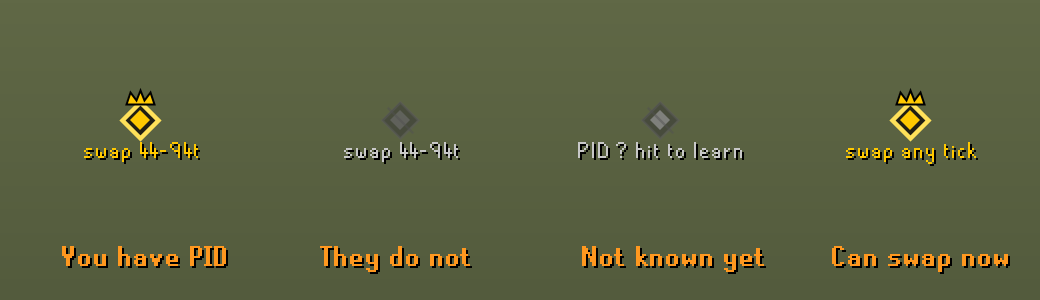
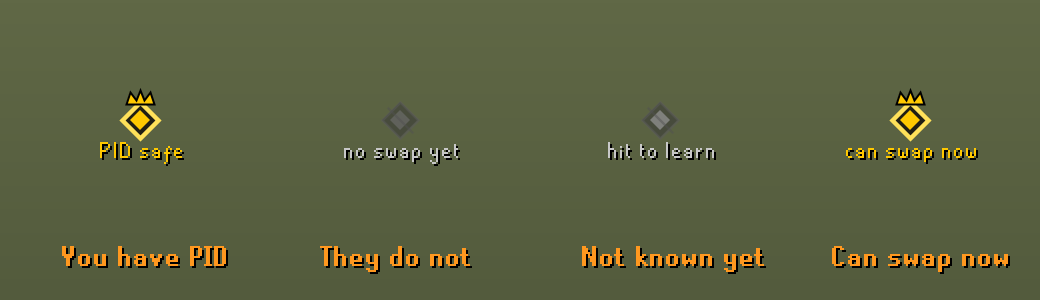
README for PKers, a key to every diamond, labels in words
The labels under the diamonds read on their own: PID safe, no swap yet,
can swap now, hit to learn. The README speaks to what PKers run into with
PID, says what each diamond means and what to do, and asks them to take
part.

diff --git a/src/main/java/com/drthomasager/pid/PidIndicatorOverlay.java b/src/main/java/com/drthomasager/pid/PidIndicatorOverlay.java
@@ -70,6 +70,12 @@ class PidIndicatorOverlay extends Overlay
 		return null;
 	}
 
+	/**
+	 * The label under a diamond, in words. Before PID can be redrawn the
+	 * holder's reads "PID safe" and the other's "no swap yet". Once a redraw
+	 * can happen both read "can swap now". With nothing read yet, yours reads
+	 * "hit to learn".
+	 */
 	private String note(PidTracker.Holder h, boolean mine)
 	{
 		if (!config.showSwapTicks())
@@ -78,20 +84,15 @@ class PidIndicatorOverlay extends Overlay
 		}
 		if (h == PidTracker.Holder.UNKNOWN)
 		{
-			return mine ? "PID ? hit to learn" : null;
+			return mine ? "hit to learn" : null;
 		}
-		int[] w = plugin.redrawWindow();
-		int toLo = w[0] - plugin.getSinceChange();
-		int toHi = w[1] - plugin.getSinceChange();
-		if (toLo > 0)
+		boolean holder = (h == PidTracker.Holder.ME) == mine;
+		boolean locked = plugin.getSinceChange() < plugin.redrawWindow()[0];
+		if (locked)
 		{
-			return "swap " + toLo + "-" + toHi + "t";
+			return holder ? "PID safe" : "no swap yet";
 		}
-		if (toHi > 0)
-		{
-			return "swap now-" + toHi + "t";
-		}
-		return "swap any tick";
+		return "can swap now";
 	}
 
 	private void diamond(Graphics2D g, Player p, boolean hasPid, boolean unknown, String note)

diff --git a/src/main/java/com/drthomasager/pid/PidIndicatorConfig.java b/src/main/java/com/drthomasager/pid/PidIndicatorConfig.java
@@ -20,8 +20,8 @@ public interface PidIndicatorConfig extends Config
 
 	@ConfigItem(
 		keyName = "showSwapTicks",
-		name = "Show swap ticks",
-		description = "Under each diamond, the ticks until PID can be drawn again",
+		name = "Show swap labels",
+		description = "Under each diamond, whether PID is safe or can swap now",
 		position = 2
 	)
 	default boolean showSwapTicks()

diff --git a/README.md b/README.md
@@ -1,38 +1,86 @@
 # PID Indicator
 
-A RuneLite plugin that shows who has PID in your fight.
+**Stop guessing who has PID. See it, live, over both your heads.**
 
 ![The four states of the PID diamond](docs/diamonds.png)
 
-A diamond floats over your head and over your opponent's. The one with PID gets a gold diamond with a crown. The one without gets a grey diamond with a cross, and both stay grey until the plugin has seen enough to know. Under each diamond is the number of ticks until PID can be redrawn.
+Every PKer knows PID decides fights. Whoever has it gets their actions in first each tick. Their hit lands sooner, their step happens before yours, and when you both go for the KO at the same moment, theirs counts first. Until now you couldn't see any of that. You had to guess.
 
-## How it knows
+PID Indicator puts a diamond over your head and over your opponent's. **Gold with a crown means that player has PID. Grey means they don't.**
 
-Old School RuneScape processes players in an order each tick, and the player processed first has PID. When both of you attack on the same tick, PID decides whose hit lands first.
+---
 
-A melee hit lands either on the tick its swing begins or one tick later. The fighter whose hit lands on the same tick as their swing was processed first that tick, so they have PID. Across 147 recorded Last Man Standing fights, whenever one fighter's hit landed on the swing tick, the other's landed a tick later (245 nearby pairs, 2 exceptions).
+## What you'll see
 
-Crossbow shots count too. A bolt takes `1 + (3 + distance) / 6` ticks to land (rounded down). Landing on exactly that tick means the shooter was processed first, and landing one tick later means the other fighter was.
+| Over a player | What it means | What to do |
+|---|---|---|
+| **Gold diamond with a crown**, `PID safe` | This player has PID, and it can't change hands yet. | If it's you, this is your window, so push. If it's them, play safe and wait it out. |
+| **Grey diamond**, `no swap yet` | This player doesn't have PID, and won't get it back soon. | If it's you, don't take even trades now. Wait for the swap. |
+| **Either diamond**, `can swap now` | PID can be redrawn at any moment. | Watch the crown. It might jump. |
+| **Grey diamond over you**, `hit to learn` | The plugin hasn't seen enough yet. | Land a hit and it will know. |
 
-The plugin takes the side named by most of the last three readings within 40 ticks. With no reading for 40 ticks it goes back to unknown, since 40 ticks is the soonest PID can be redrawn. Scored over the recorded fights, it names the holder correctly on 88 percent of the next melee readings, and knows the holder on 90 percent of fight ticks.
+---
 
-## The swap ticks
+## The problems it solves
 
-According to the [OSRS Wiki](https://oldschool.runescape.wiki/w/PID), PID is redrawn at random every 100 to 150 ticks, or every 40 to 60 on PvP worlds. The number under each diamond counts down to that window from the last time the plugin saw PID change hands.
+### "Do I even have PID right now?"
 
-- `swap 44-94t` means the earliest and latest ticks until the next redraw.
-- `swap now-30t` means the window is open now and closes within 30 ticks.
-- `swap any tick` means the window has passed.
-- `PID ? hit to learn` means nothing has been read yet, so land a hit.
+Most players find out after the fight, from a clip, or never. Some burn hitpoints testing it, trading hits and squinting at hitsplats.
+
+**The plugin reads it from your fight as it happens.** The player with PID sees their melee hit land the moment they swing, while the other player's lands a moment later. The plugin watches every swing and every hit, yours and theirs, and puts the answer over your heads. Crossbow bolts count too. You never have to trade hits on purpose to find out.
+
+### "I went all in and they had PID."
+
+You stack your spec, they eat, and their hit lands first. PID decided that exchange and you never saw it coming.
+
+**A gold crown over you means go.** With PID your hits land first, which is your window to push. With the crown over them, you know they act first, so you can hold back until it swaps.
+
+### "PID swapped mid-fight and I didn't notice."
+
+The game redraws PID at random every minute or so, and faster on PvP worlds. An advantage you had a moment ago can be gone now.
+
+**The label tells you when it can change.** `PID safe` means it can't swap yet. `can swap now` means it might jump any moment. You'll see your advantage ending before it ends, and can plan your next push for the next window.
+
+### "I keep losing the trades I should win."
+
+Two equal players trade hits, and one keeps coming out ahead. More often than people think, the difference is PID, not skill.
+
+**Now you can see it and learn from it.** Notice which fights you win with the crown over you and which you lose without it. You'll start to feel when to commit and when to wait, in Last Man Standing, in the Wilderness, on PvP worlds and in NH fights.
+
+### "Every PID tool is a guess."
+
+Most of what's out there is forum rules of thumb.
+
+**This one was built from real fights.** The method came from studying a large set of recorded Last Man Standing fights, hit by hit. When it isn't sure, it doesn't pretend. It shows a grey diamond and `hit to learn`.
+
+---
+
+## What it does and doesn't do
+
+- It only reads what your own client already shows you, meaning the attacks and hits of you and your opponent.
+- It sends nothing anywhere and talks to no server.
+- It never clicks, never acts for you, and changes nothing in the game. It draws two diamonds and a word.
 
 ## Settings
 
-- **Show outside fights.** Keeps your own diamond over your head in PvP places (the Wilderness, PvP, Last Man Standing, high risk and Deadman worlds) even when you aren't fighting. On by default.
-- **Show swap ticks.** Shows the tick counts under the diamonds. On by default.
+- **Show outside fights.** Keeps your own diamond over your head in PvP places (the Wilderness, PvP, Last Man Standing, high risk and Deadman worlds) even when you aren't fighting.
+- **Show swap labels.** The words under each diamond.
 
-## What it reads
+---
 
-The plugin only reads what your own client already shows you. That means your own and your opponent's attack animations, the hitsplats on you and the ones you deal, and the distance between you. It sends nothing anywhere and changes nothing in the game.
+## Take part, and make it better
+
+This is the first version, and it gets sharper with every fight people play with it. Here's how you can help.
+
+1. **Run it in your fights.** Build it (see below) or grab the jar from [Releases](https://github.com/DrThomasAger/pid-indicator/releases) and load it in RuneLite's developer mode.
+2. **Tell us when it's wrong.** If the crown sat over the wrong player, [open an issue](https://github.com/DrThomasAger/pid-indicator/issues). Say roughly what happened, which weapons were out, and where you were fighting. A short clip is gold.
+3. **Bring your weapons.** It reads the whip, dragon dagger, claws, the common melee swings and crossbows. If you fight with something else, like a godsword, a maul, darts or knives, tell us, or add it yourself in [`PidTracker.java`](src/main/java/com/drthomasager/pid/PidTracker.java).
+4. **Star the repository** so other PKers can find it.
+5. **Pull requests are welcome.** The tracker is plain Java with its own tests in `src/test`.
+
+PID has decided fights in the dark for years. Let's turn the lights on together.
+
+---
 
 ## Building
 
@@ -40,11 +88,11 @@ The plugin only reads what your own client already shows you. That means your ow
 ./gradlew build
 ```
 
-The tests in `src/test` check the tracker on its own. `./gradlew run` starts RuneLite in developer mode with the plugin loaded.
+`./gradlew run` starts RuneLite in developer mode with the plugin loaded. The jar lands in `build/libs`.
 
 ## Where it comes from
 
-The plugin was written by Dr. Thomas Ager for playing Last Man Standing. It started as part of a set of aids written in Clojure and running inside RuneLite, where it was measured against every recorded fight. This Java version names the same holder as that original on 99.9 percent of 49,334 fight ticks.
+Written by Dr. Thomas Ager while playing Last Man Standing, as part of a set of fight aids built and checked against his own recorded fights.
 
 ## Licence
 
